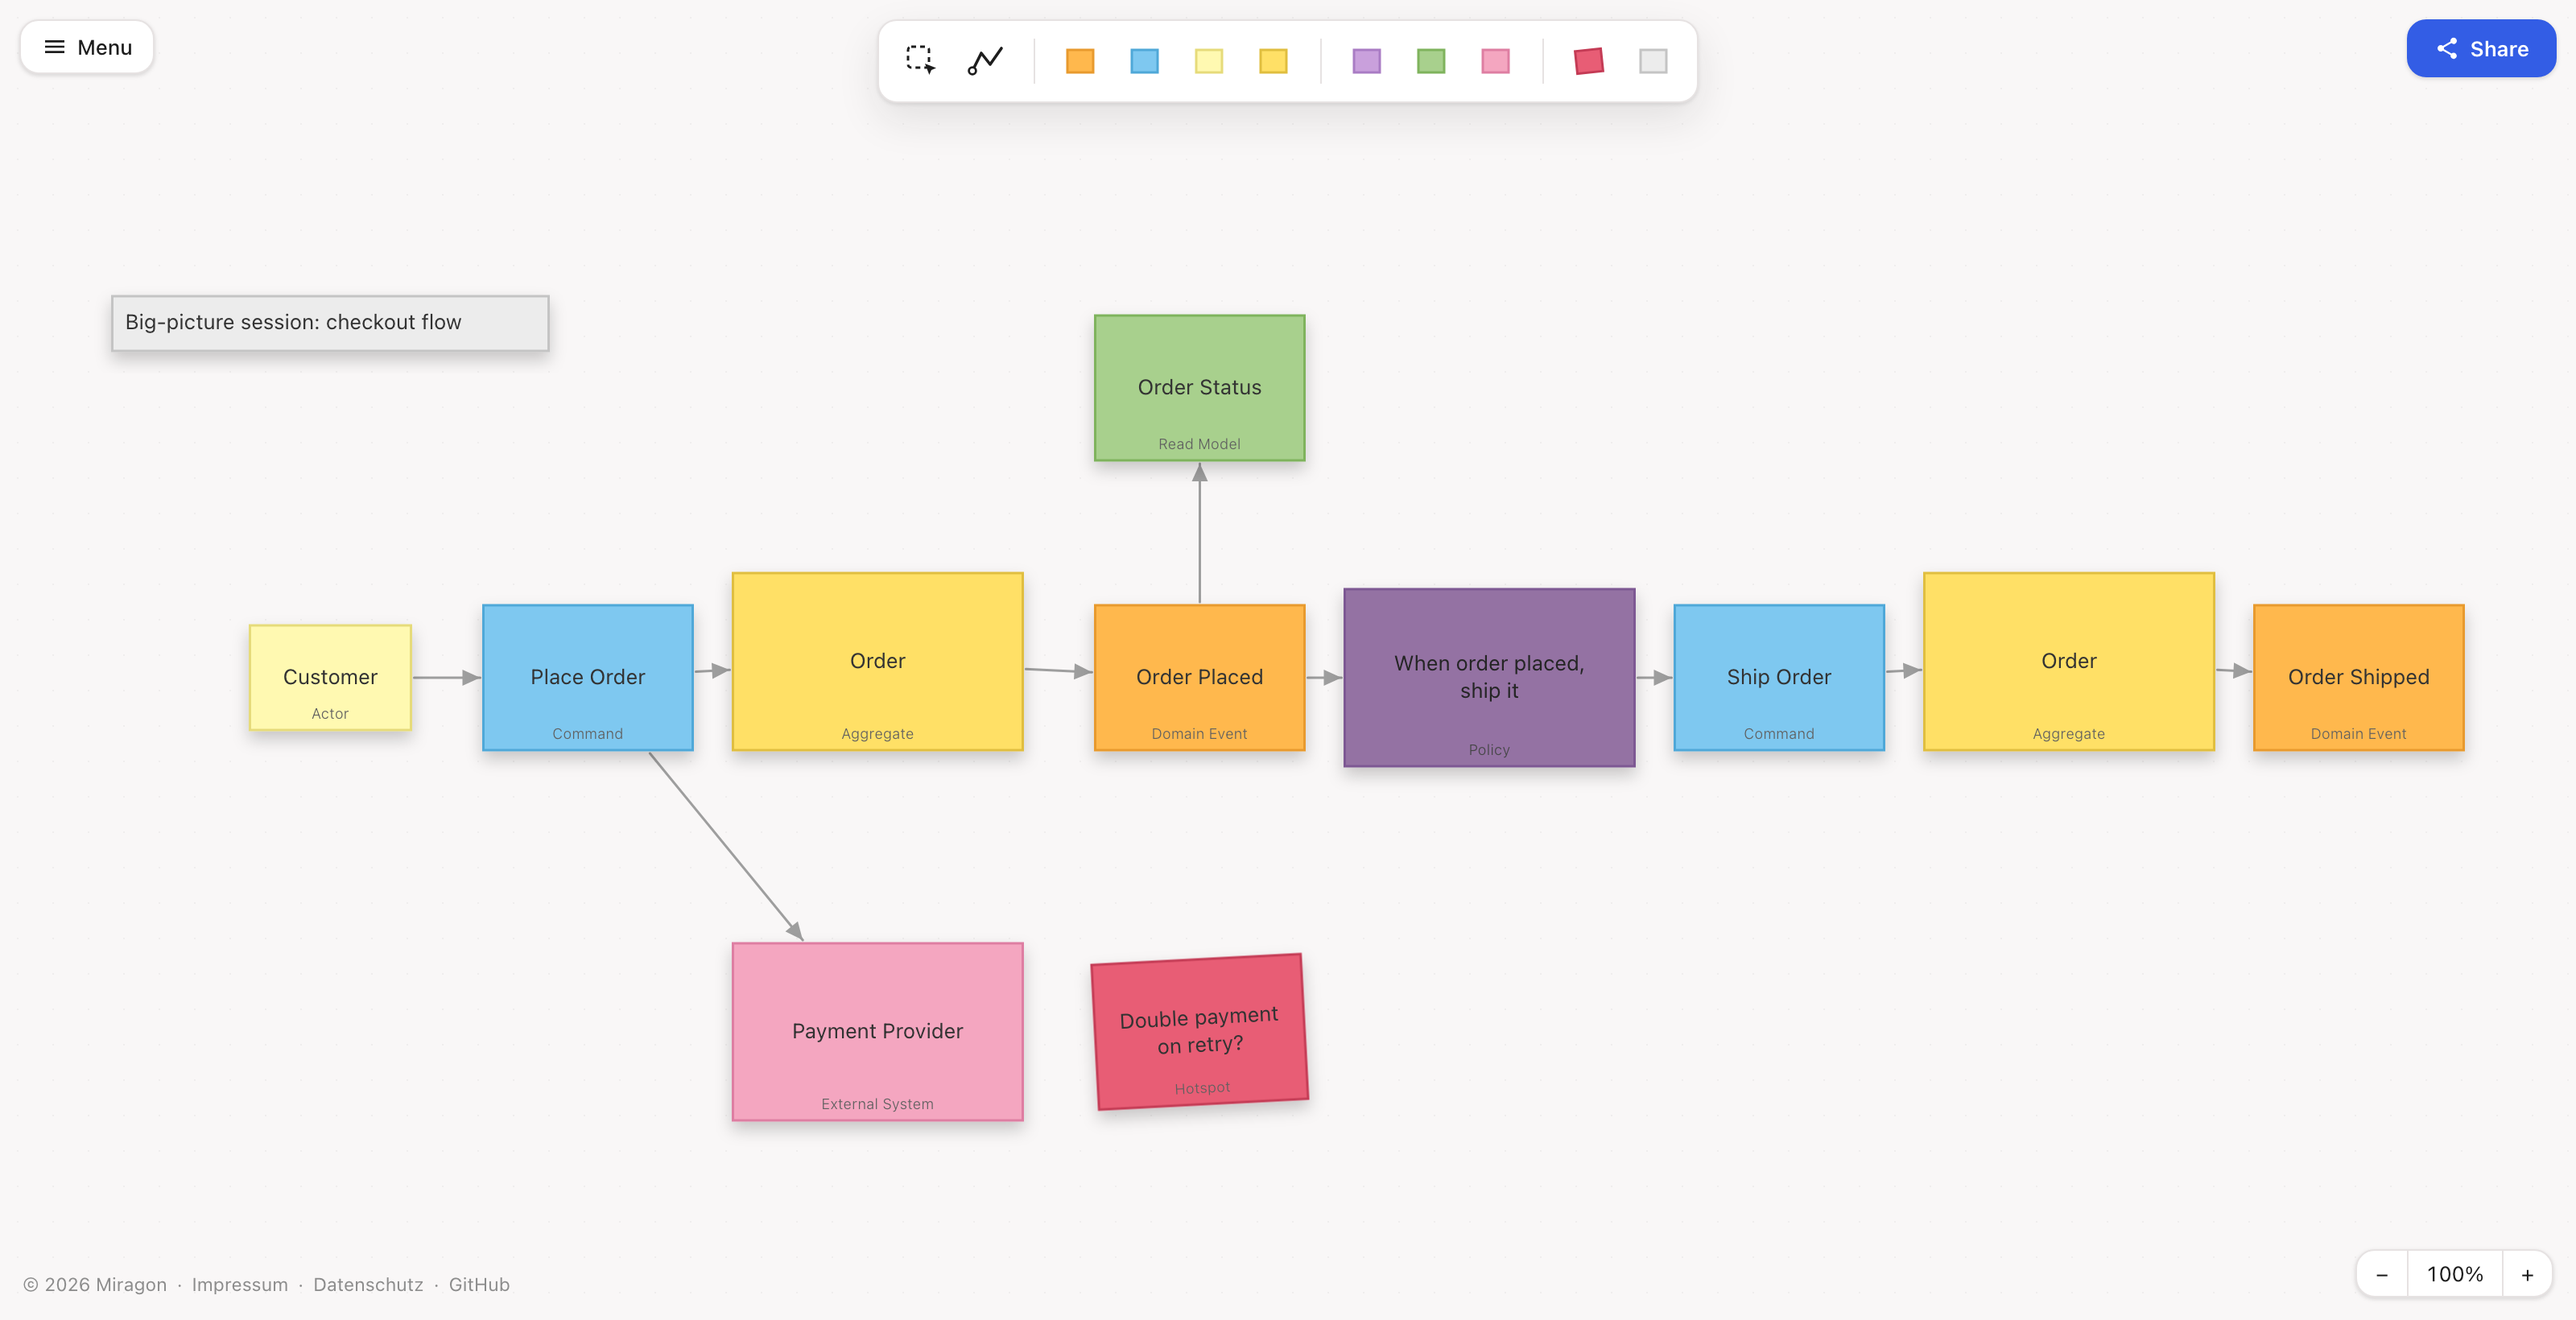
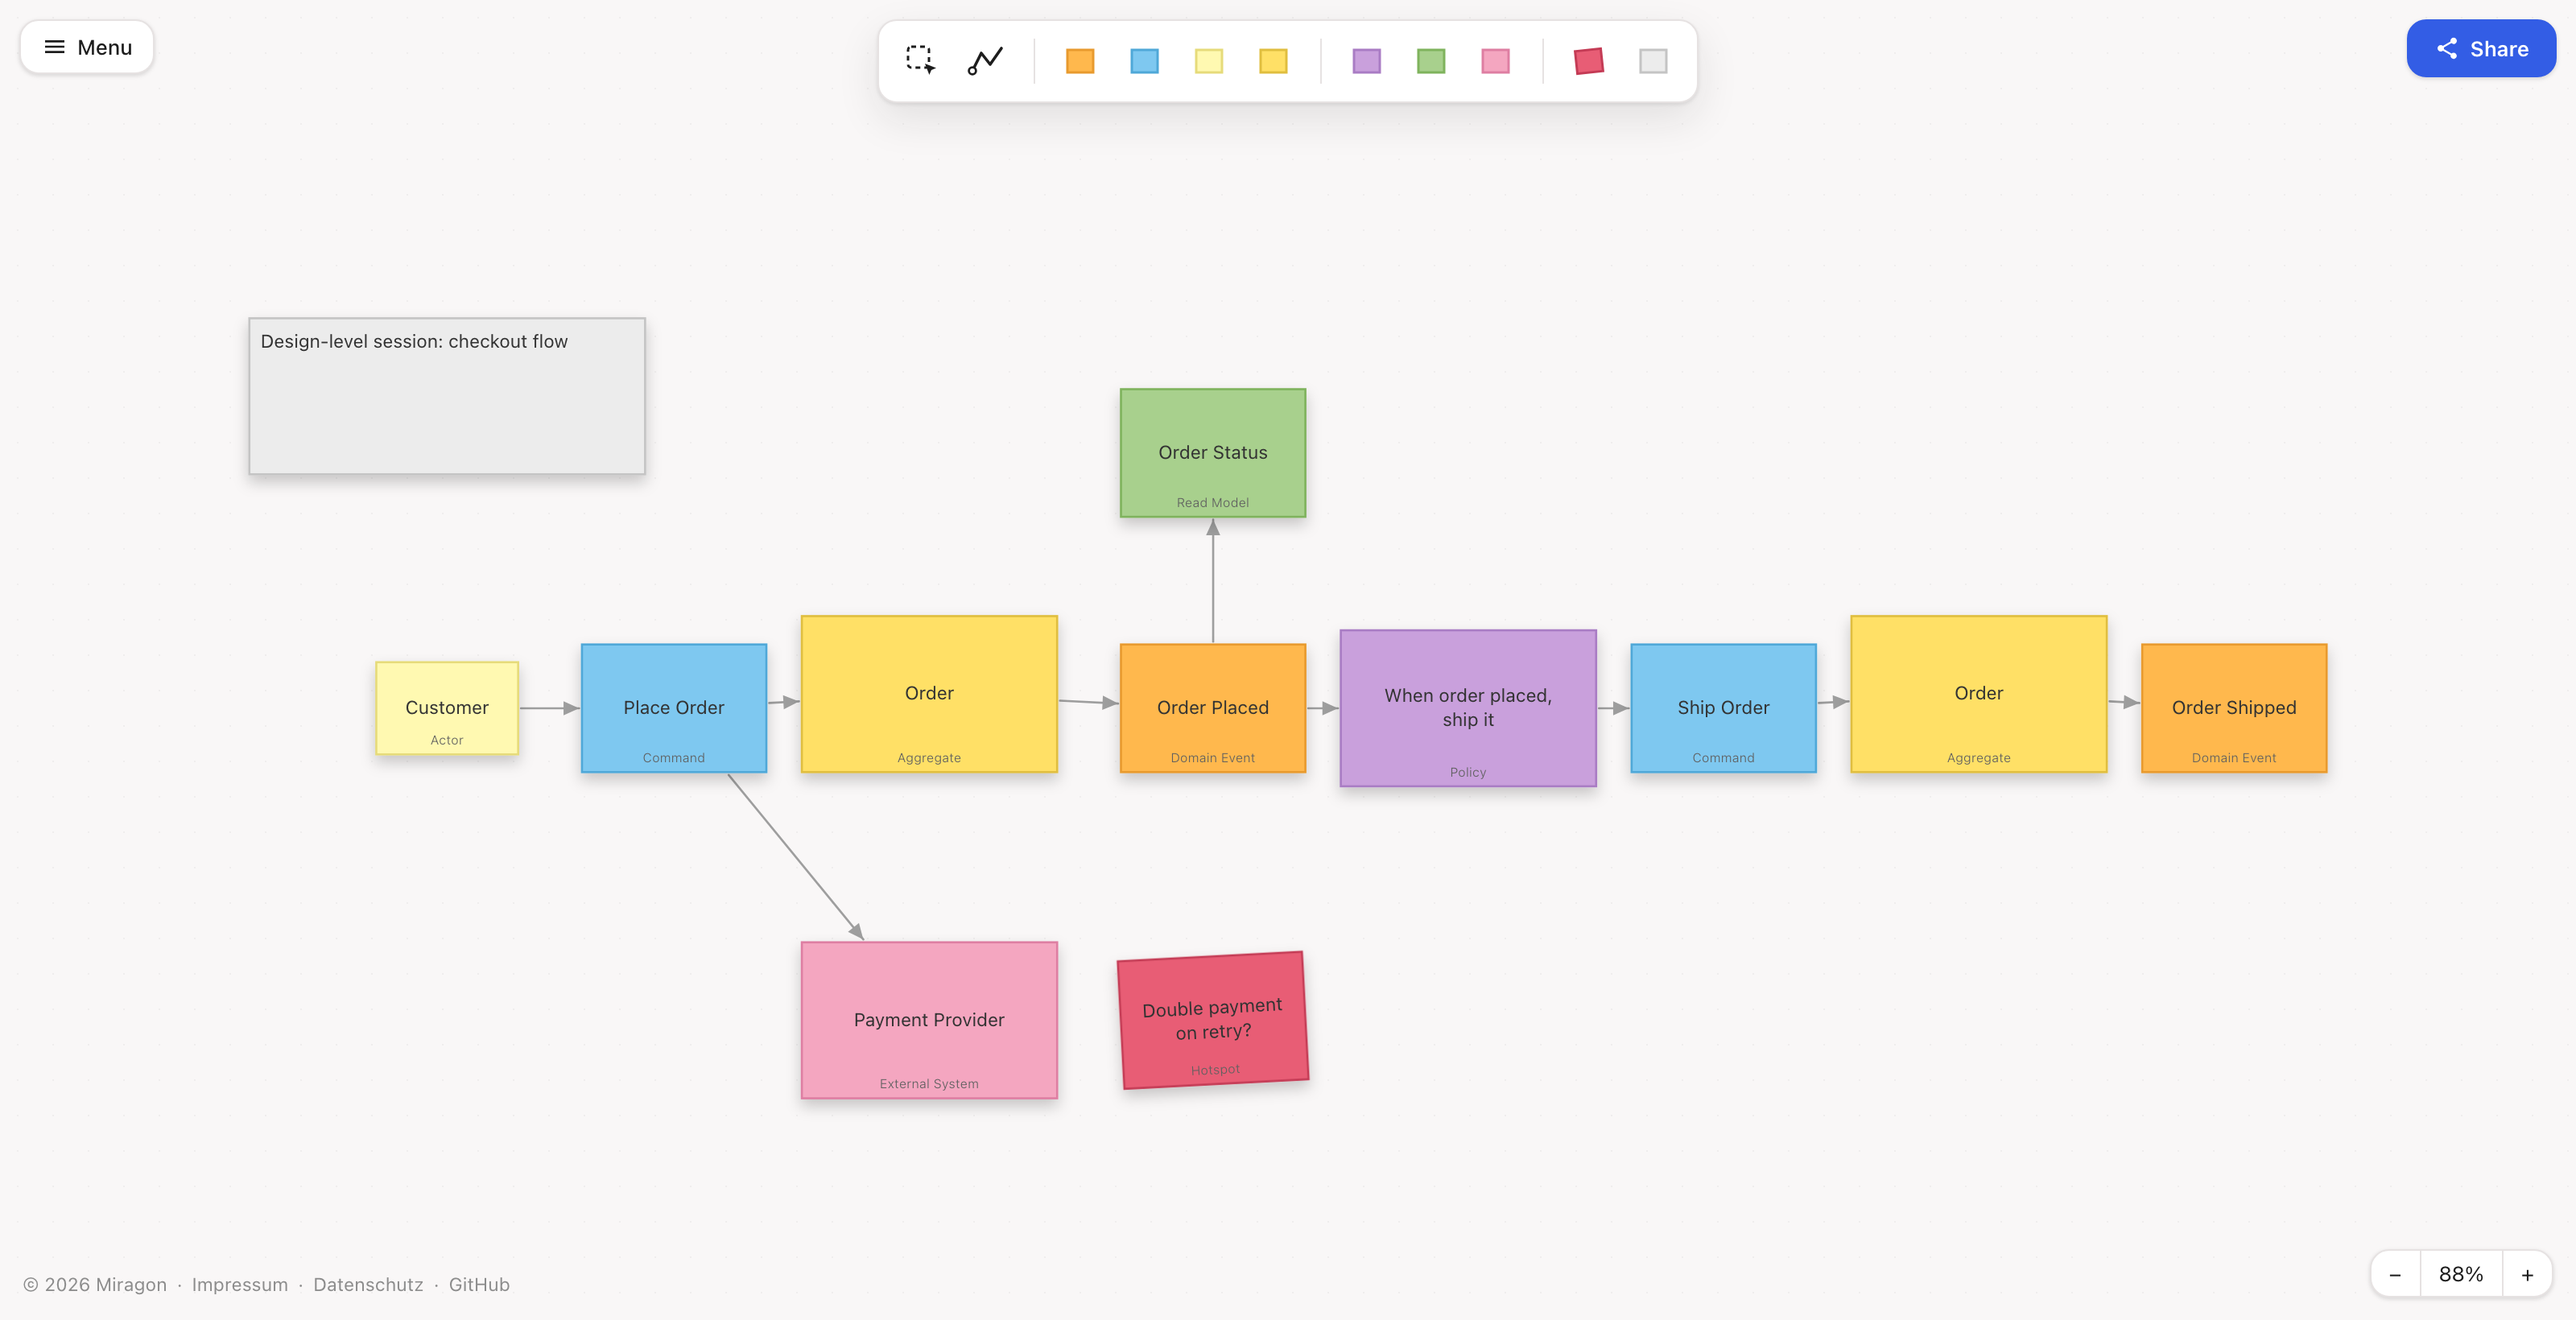
fix(example): label the checkout board as a design-level session (#9)
The Order Checkout example uses the full grammar (aggregates, commands,
policy, read model), which is the software-design level, yet its note
called it a big-picture session. Rename the note everywhere the example
is embedded (storm file, webapp, VS Code extension, docs, DSL fixture),
regenerate the e2e SVG snapshot and the README editor screenshot.

diff --git a/packages/dsl/test/dsl.test.ts b/packages/dsl/test/dsl.test.ts
@@ -15,7 +15,7 @@ event Order Shipped [1340, 300]
 readmodel Order Status [620, 120]
 external Payment Provider [420, 520]
 hotspot Double payment on retry? [620, 520]
-note Big-picture session: checkout flow [80, 80]
+note Design-level session: checkout flow [80, 80]
 
 Customer -> Place Order
 Place Order -> #agg_order
@@ -36,7 +36,7 @@ policy When order placed, ship it [800, 300]
 readmodel Order Status [620, 120]
 external Payment Provider [420, 520]
 hotspot Double payment on retry? [620, 520]
-note Big-picture session [80, 80]
+note Design-level session [80, 80]
 line [[100, 100], [200, 150], [180, 240]] (dashed)`;
 
 describe('parseDSL', () => {

diff --git a/apps/vscode/src/extension.ts b/apps/vscode/src/extension.ts
@@ -17,7 +17,7 @@ event Order Shipped [1340, 300]
 readmodel Order Status [620, 120]
 external Payment Provider [420, 520]
 hotspot Double payment on retry? [620, 520]
-note Big-picture session: checkout flow [80, 80]
+note Design-level session: checkout flow [80, 80]
 
 Customer -> Place Order
 Place Order -> #agg_order

diff --git a/apps/webapp/src/main.ts b/apps/webapp/src/main.ts
@@ -37,7 +37,7 @@ event Order Shipped [1340, 300]
 readmodel Order Status [620, 120]
 external Payment Provider [420, 520]
 hotspot Double payment on retry? [620, 520]
-note Big-picture session: checkout flow [80, 80]
+note Design-level session: checkout flow [80, 80]
 
 Customer -> Place Order
 Place Order -> #agg_order

diff --git a/packages/dsl/README.md b/packages/dsl/README.md
@@ -41,7 +41,7 @@ policy When order placed, ship it [800, 300]
 readmodel Order Status [620, 120]
 external Payment Provider [420, 520]
 hotspot Double payment on retry? [620, 520]
-note Big-picture session [80, 80]
+note Design-level session [80, 80]
 line [[100,100],[200,150],[180,240]] (dashed)      // freeform drawing
 
 // arrows: name-referenced, optional label after ;

diff --git a/.claude/skills/event-storming/reference/dsl.md b/.claude/skills/event-storming/reference/dsl.md
@@ -141,7 +141,7 @@ event Order Shipped [1340, 300]
 readmodel Order Status [620, 120]
 external Payment Provider [420, 520]
 hotspot Double payment on retry? [620, 520]
-note Big-picture session: checkout flow [80, 80]
+note Design-level session: checkout flow [80, 80]
 
 Customer -> Place Order
 Place Order -> #agg_order

diff --git a/README.md b/README.md
@@ -141,7 +141,7 @@ event Order Shipped [1340, 300]
 readmodel Order Status [620, 120]
 external Payment Provider [420, 520]
 hotspot Double payment on retry? [620, 520]
-note Big-picture session: checkout flow [80, 80]
+note Design-level session: checkout flow [80, 80]
 
 Customer -> Place Order
 Place Order -> #agg_order
